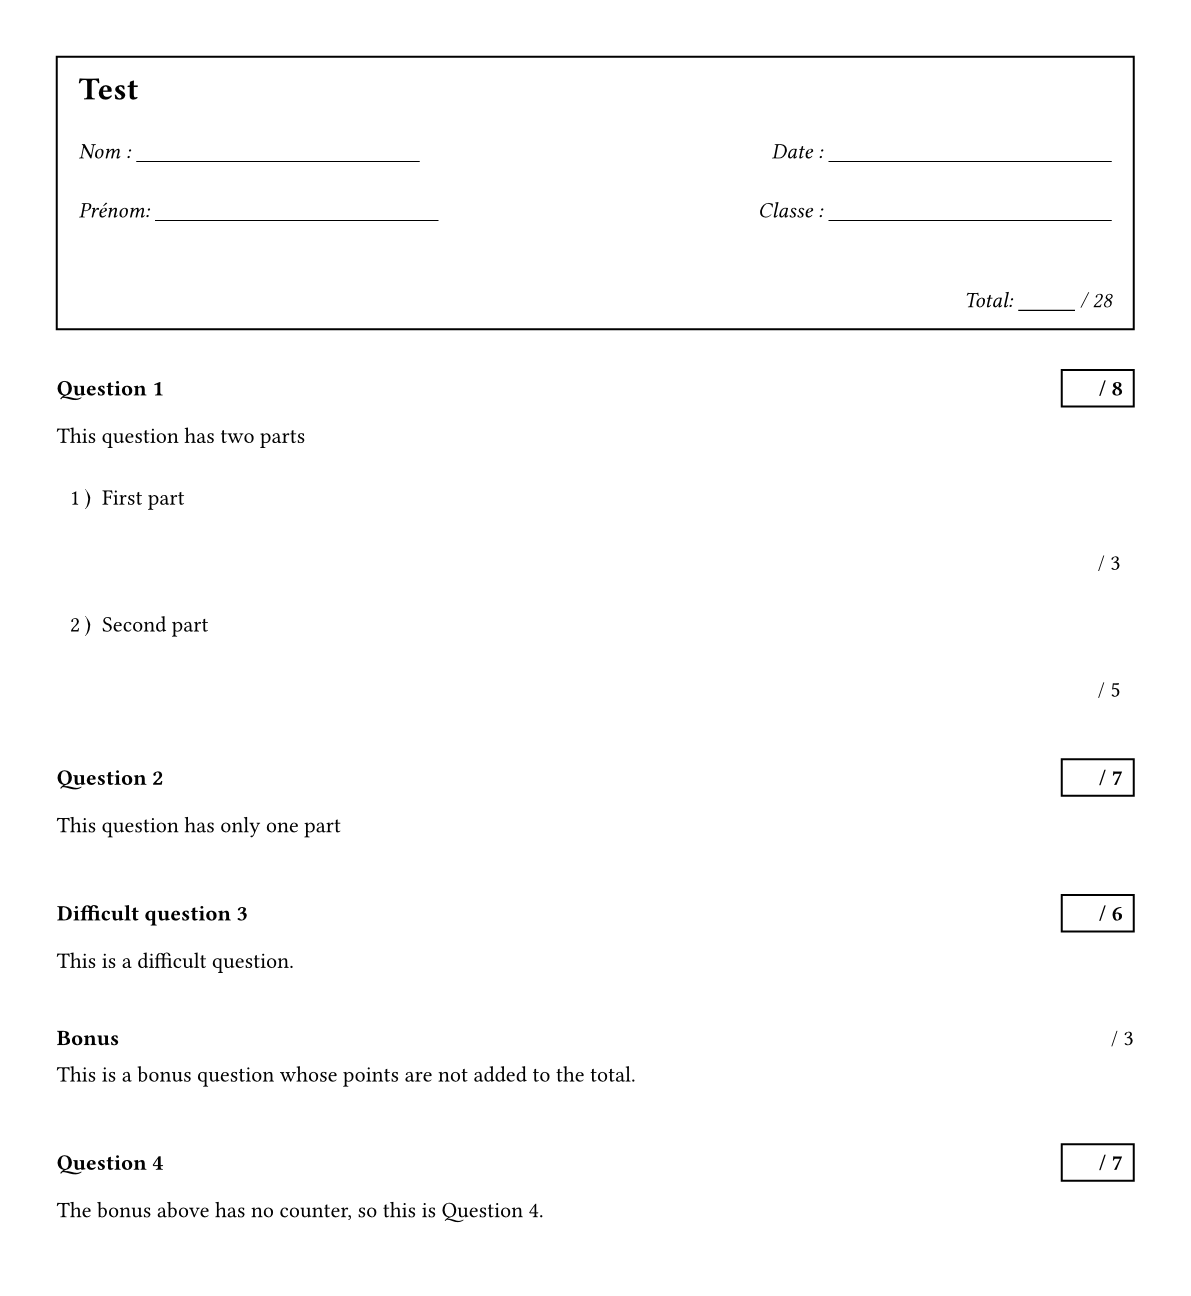
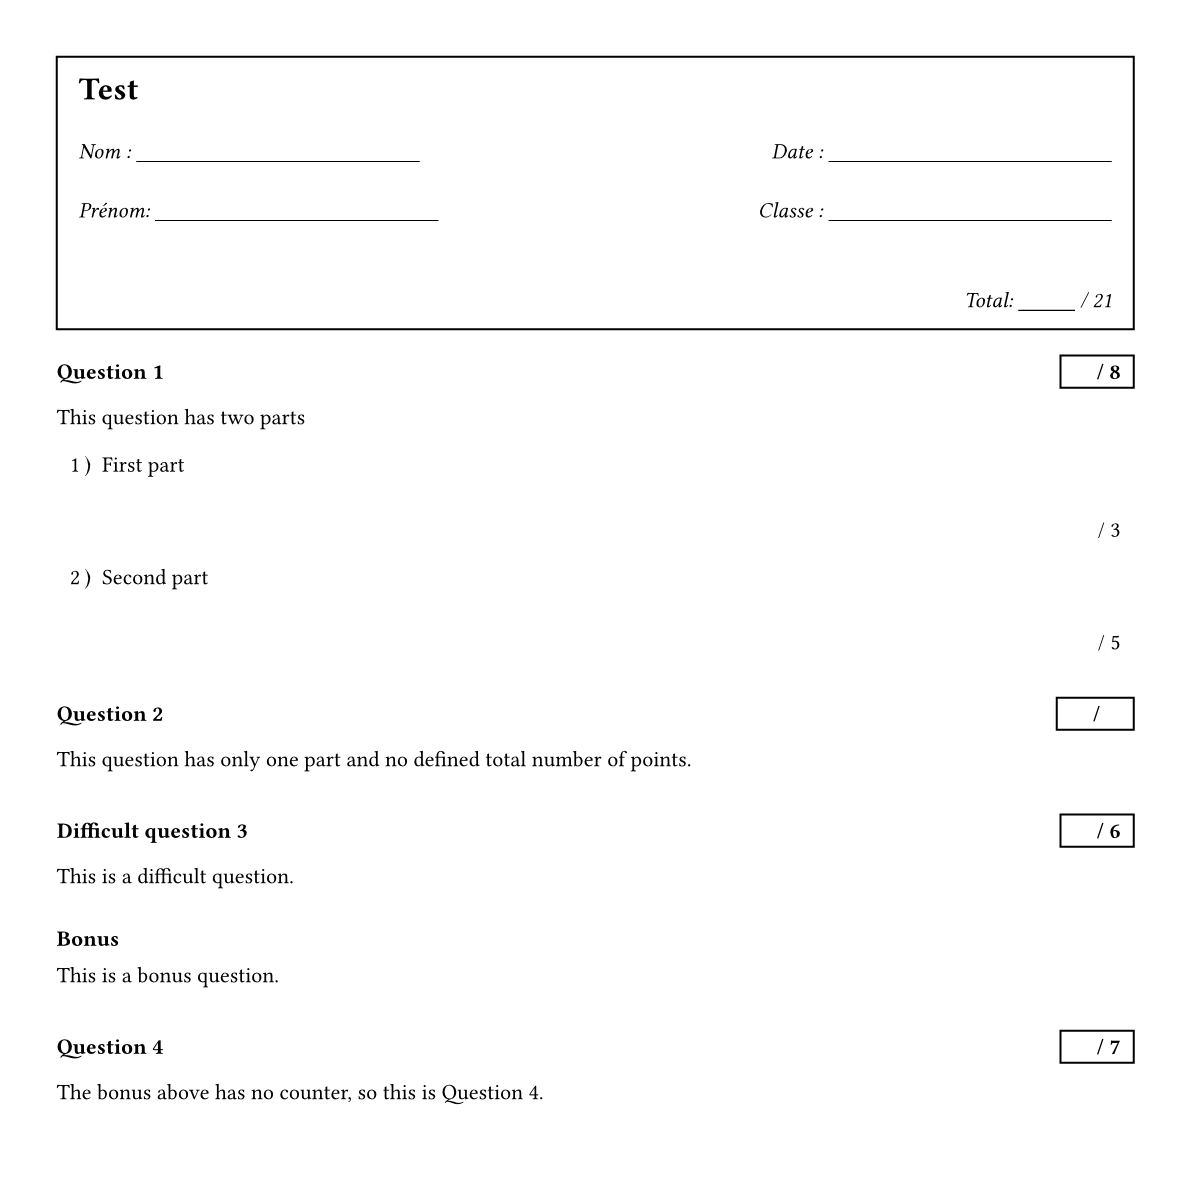
[update] exam themes with customizable points-box

diff --git a/README.md b/README.md
@@ -158,13 +158,13 @@ Simply download the package locally (as described on the [Typst Packages](https:
 
 ## Exam styles
 
-### underline theme
+### boxed-title theme
 
 ```typst
 #import "@local/mathemateach:0.1.0": *
 
-// import underline style
-#import exam.underline: *
+// import boxed-title style
+#import exam.boxed-title: *
 
 #set page(height: auto, margin: 1cm)
 
@@ -174,19 +174,20 @@ Simply download the package locally (as described on the [Typst Packages](https:
 // apply exam style
 #show: show-exam
 
+
 #question[
   This question has two parts
   #subquestion(points: 3)[First part #v(2em)]
   #subquestion(points: 5)[Second part #v(2em)]
 ]
 
-#question(points: 7)[
-  This question has only one part
+#question(points: 0)[
+  This question has only one part and no defined total number of points.
 ]
 
 #question(title: build-title("Difficult question"), points: 6)[This is a difficult question.]
 
-#question(title: [*Bonus* #h(1fr)/ 3], counter: none)[This is a bonus question whose points are not added to the total.]
+#question(title: [*Bonus*], counter: none)[This is a bonus question.]
 
 #question(points: 7, label: <this-question>)[
   The bonus above has no counter, so this is @this-question.
@@ -194,7 +195,38 @@ Simply download the package locally (as described on the [Typst Packages](https:
 
 ```
 
-![image](./exam/examples/underline-test.png)
+![image](./exam/examples/boxed-title-test.png)
+
+### boxed-title as underline theme
+
+```typst
+#import "@local/mathemateach:0.1.0": *
+
+// import boxed-title style
+#import exam.boxed-title: *
+
+#set page(height: auto, margin: 1cm)
+
+// set points-box to underline
+#show: set-box(
+  points-box,
+  frame: (
+    thickness: (bottom: 1pt),
+    body-inset: (left: 0em, y: .65em)
+  )
+)
+
+// show exam header with total points
+#show: show-header
+
+// apply exam style
+#show: show-exam
+
+[...]
+
+```
+
+![image](./exam/examples/underline-boxed-title-test.png)
 
 ### boxed-pts theme
 
@@ -204,10 +236,10 @@ Simply download the package locally (as described on the [Typst Packages](https:
 // import boxed-pts style
 #import exam.boxed-pts: *
 
-#set page(height: auto, margin: 1cm)
-
 // show exam header with total points
 #show: show-header
+
+#set page(height: auto, margin: 1cm)
 
 // applies exam style
 #show: show-exam
@@ -217,25 +249,3 @@ Simply download the package locally (as described on the [Typst Packages](https:
 ```
 
 ![image](./exam/examples/boxed-pts-test.png)
-
-### boxed-title theme
-
-```typst
-#import "@local/mathemateach:0.1.0": *
-
-// import boxed-title style
-#import exam.boxed-title: *
-
-// show exam header with total points
-#show: show-header
-
-#set page(height: auto, margin: 1cm)
-
-// applies exam style
-#show: show-exam
-
-[...]
-
-```
-
-![image](./exam/examples/boxed-title-test.png)
